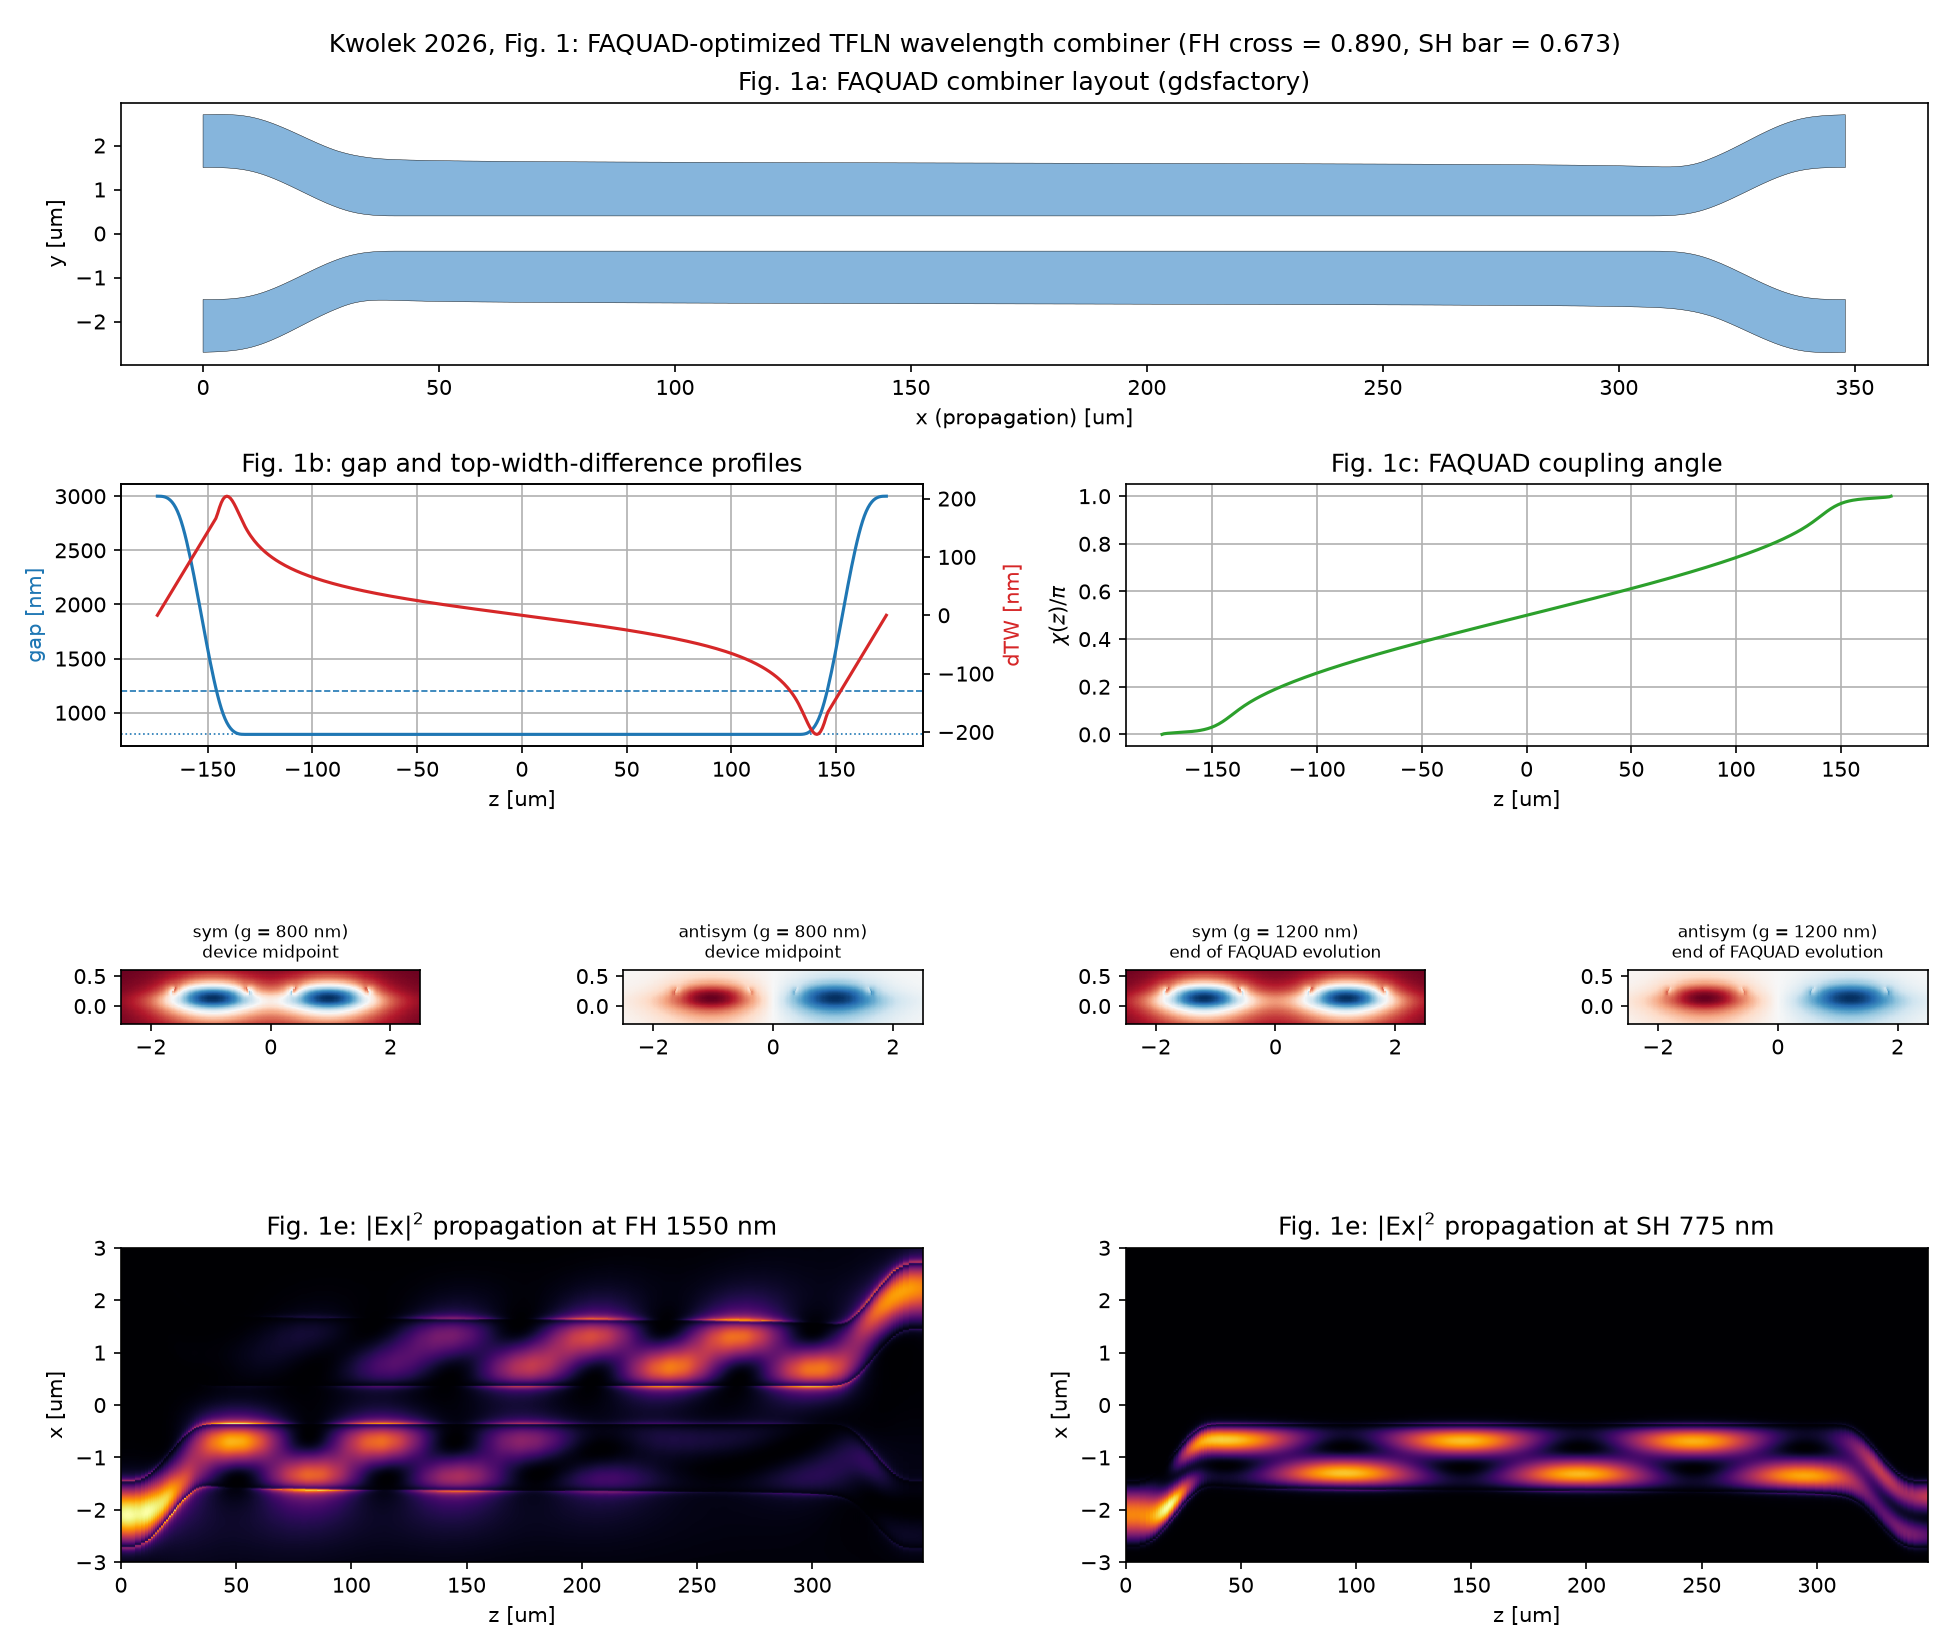
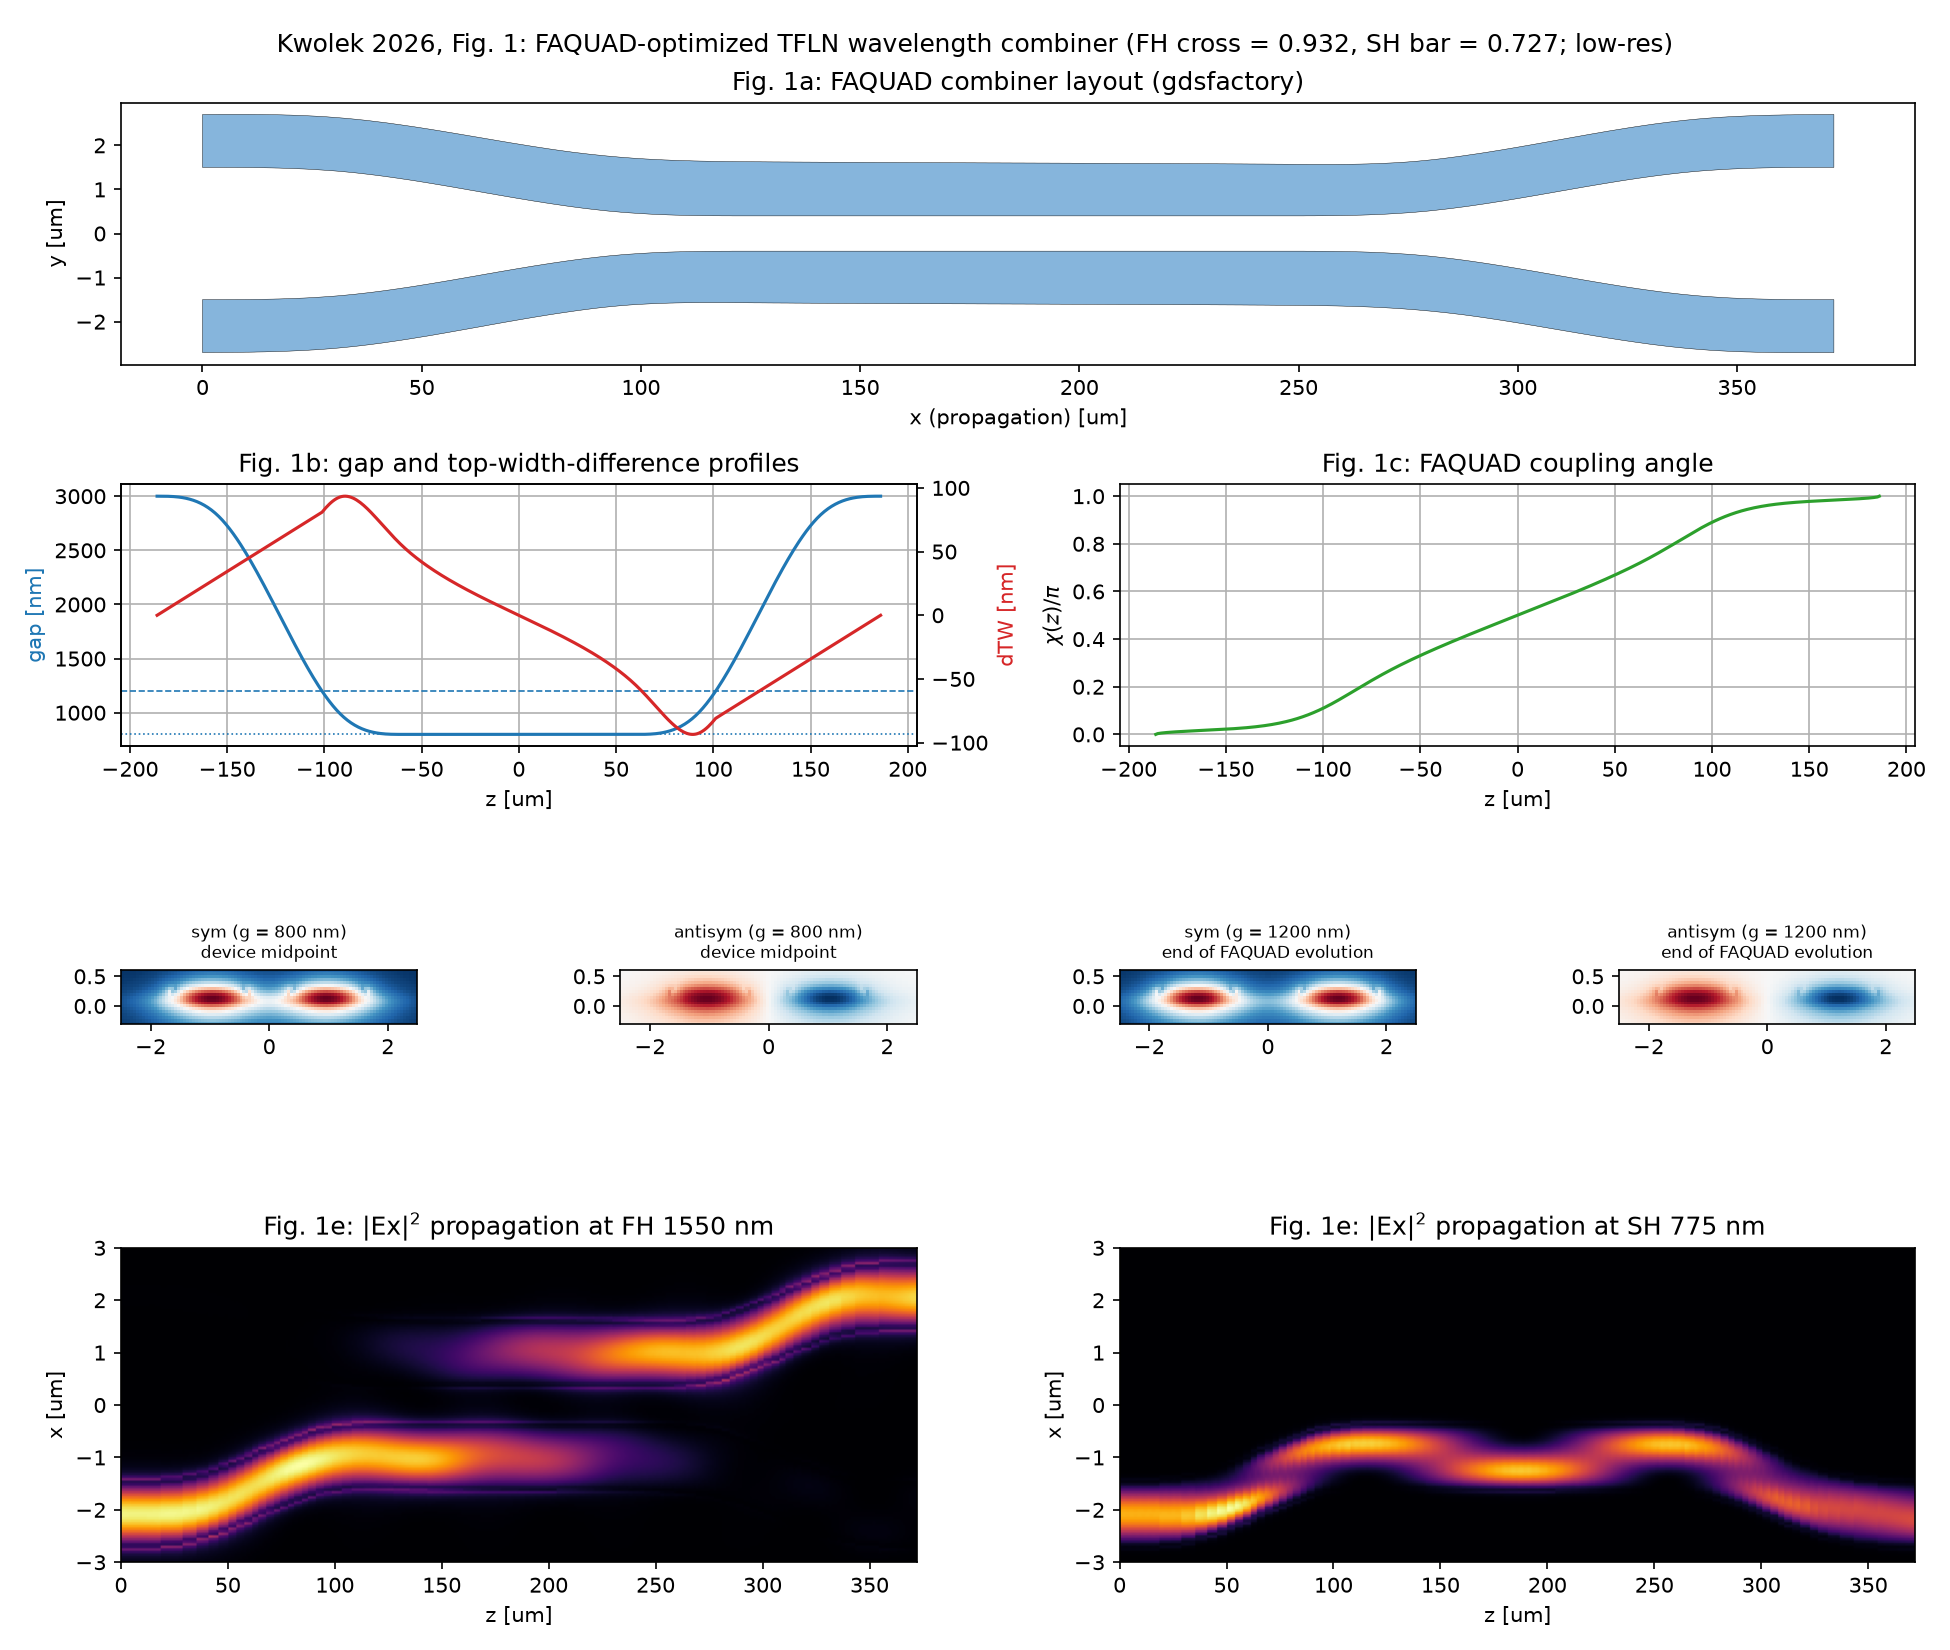
Fix Kwolek 2026 EME combiner: guided-mode metric, gentle bends, presets
The Kwolek FAQUAD combiner figures were physically wrong: at the shipped
resolution the EME conserved only ~30% of the power and the transmission
spectrum/field plots were meaningless. Three root causes, all fixed:

1. Bar/cross metric. The shallow-etched rib mode sits only ~0.02-0.1 in index
   above the 200 nm slab, so the hard-wall lateral window discretizes the slab
   continuum into a dense ladder of spurious box modes just below the guided
   index. The old metric summed *every* output mode by the sign of its
   centroid, conflating slab radiation with transmission -- unphysical and
   unstable in num_modes (bar swung 0.07->0.15->0.12 as modes went 10->12->14).
   Now bar/cross projects onto the rib-guided modes only (neff above an explicit
   slab-index threshold from a background-only solve), summed per side, so
   loss = 1 - bar - cross is honest and the metric is stable. The per-side sum
   (not just the fundamental) is required at SH, where the ribs are multimode.

2. Device geometry. Converged EME shows the original Euler S-bend angle
   (theta_max = 3 deg) radiates the weakly-guided mode into the slab (~50%
   loss); dropping to 1 deg cuts that to a few percent. The constant-gap length
   is shortened (l_m 264 -> 120 um): FH cross peaks near l_m ~ 150 um but SH
   extinction degrades with length, and 120 um is the dichroic compromise.
   Result: FH cross ~0.92 at ~0.4 dB loss, SH stays in the bar port.
[…]

diff --git a/examples/papers/kwolek2026_faquad.py b/examples/papers/kwolek2026_faquad.py
@@ -64,16 +64,30 @@ G_C = 1.20
 G_F = 3.0
 """Final gap between the output ports."""
 
-L_M = 264.0
-"""Constant-gap (Region I) length [um] (paper Sec. 2, final design)."""
+L_M = 120.0
+"""Constant-gap (Region I) length [um].
 
-THETA_MAX_DEG = 3.0
+Set from a converged-EME dichroic sweep. The device is multi-objective: the
+FH cross transfer is coupler-like in ``l_m`` (it peaks near ``l_m ~ 150 um``
+where the accumulated FH coupling completes the supermode swap), while the SH
+extinction *degrades* with length (a longer device gives the weakly-coupled SH
+mode more length to leak into the cross port). ``120 um`` trades a little FH
+cross (~0.92 vs a ~0.96 peak) for the best SH bar/cross contrast. (The paper's
+nominal value is longer; this reproduction optimizes the modeled stack, whose
+FDE-calibrated coupling differs from the paper's.)
+"""
+
+THETA_MAX_DEG = 1.0
 """Maximum waveguide-axis angle of the Euler S-bend separation [deg].
 
 The lateral separation that opens the gap from ``g_m`` to ``g_f`` is realized
 with Euler (clothoid) S-bends whose tangent angle rises smoothly from zero to
 this maximum (relative to the propagation/horizontal axis) at the inflection
-and back to zero, giving curvature-continuous, low-loss routing.
+and back to zero, giving curvature-continuous routing. It is kept small
+(``1 deg``): the shallow-etched rib mode sits only ~0.02 in index above the
+slab, so a steeper bend angle (the original ``3 deg``) radiates the guided mode
+into the slab continuum -- converged EME shows that dropping 3 deg -> 1 deg cuts
+the slab radiation loss from ~50% to a few percent.
 """
 
 T_BOX = 1.2
@@ -564,6 +578,68 @@ def device_cells(
     return mw.create_cells(structs, device_mesh(res), Ls, z_min=0.0)
 
 
+def _mode_centroid(mode: mw.Mode) -> float:
+    """Lateral (x) energy centroid of a mode's dominant field component."""
+    density = np.abs(mode.Ex) ** 2
+    return float(np.sum(mode.cs.mesh.Xx * density) / np.sum(density))
+
+
+_NEFF_MARGIN = 0.005
+"""Index margin above the slab continuum for a mode to count as rib-guided."""
+
+
+def slab_neff(
+    wl: float, cell: mw.Cell, *, compute_modes: Callable | None = None
+) -> float:
+    """Effective index of the bare TFLN-slab continuum on a cell's mesh.
+
+    Solves the background-only cross-section (SiO2 box + 200 nm LN slab, no
+    ribs) on the *same* mesh as ``cell``, so the returned ``neff`` is the top
+    of the slab/box-mode ladder. Rib-guided modes are exactly those above it --
+    this is the threshold that separates real bar/cross transmission from the
+    spurious slab modes the hard-wall lateral window discretizes the slab
+    continuum into (the shallow etch leaves the guided index only ~0.02-0.1
+    above the slab).
+    """
+    solver = compute_modes or mw.compute_modes
+    x = np.asarray(cell.mesh.x)
+    structs = _background(wl, cell.z_max, x_span=(float(x.min()), float(x.max())))
+    scell = mw.create_cells(
+        structs, cell.mesh, np.array([cell.z_max - cell.z_min]), z_min=cell.z_min
+    )[0]
+    cs = mw.CrossSection.from_cell(cell=scell, env=mw.Environment(wl=wl, T=25.0))
+    return max(float(np.real(m.neff)) for m in solver(cs, num_modes=2))
+
+
+def rib_guided_indices(modes: list[mw.Mode], slab_index: float) -> list[int]:
+    """Indices of the rib-guided modes (``neff`` above the slab continuum).
+
+    Every other solved mode is a slab/box mode of the finite simulation window
+    and carries radiation, not bar/cross power. The ribs are single-mode at the
+    fundamental (FH) but multimode at the second harmonic (SH), so this returns
+    *all* guided modes -- the transmission sums over them per side, which is
+    what makes the metric stable in ``num_modes`` and correct at both bands.
+    """
+    return [
+        i
+        for i, m in enumerate(modes)
+        if float(np.real(m.neff)) > slab_index + _NEFF_MARGIN
+    ]
+
+
+def input_launch_index(modes: list[mw.Mode], slab_index: float) -> int:
+    """Index of the guided fundamental of waveguide B (the device input port).
+
+    Waveguide B is drawn at negative x, so the launch mode is the highest-index
+    rib-guided mode whose energy centroid is negative (falling back to the
+    global fundamental if none qualifies).
+    """
+    guided = rib_guided_indices(modes, slab_index)
+    left = [i for i in guided if _mode_centroid(modes[i]) < 0]
+    pool = left or guided or list(range(len(modes)))
+    return max(pool, key=lambda i: float(np.real(modes[i].neff)))
+
+
 def bar_cross_transmission(
     cells: list[mw.Cell],
     wl: float,
@@ -572,11 +648,21 @@ def bar_cross_transmission(
     parallel: bool | None = None,
     compute_modes: Callable | None = None,
 ) -> tuple[float, float]:
-    """(bar, cross) power for the fundamental TE mode injected in port B.
+    """(bar, cross) power for the guided TE mode injected in port B.
 
-    The input fundamental mode of the asymmetric input cross-section is the
-    one localized in waveguide B (negative x); transmission is classified by
-    the lateral energy centroid of the output modes.
+    The input is the guided fundamental localized in waveguide B (negative x).
+    Transmission is the EME power coupled from it into the *rib-guided* output
+    modes (:func:`rib_guided_indices`), summed per side: the bar port collects
+    the negative-x modes (waveguide B), the cross port the positive-x modes
+    (waveguide A). Summing every guided mode -- not just the fundamental --
+    matters at the second harmonic, where the ribs are multimode. Power that
+    ends up in the spurious slab/box modes of the finite window is radiation
+    **loss**, so ``1 - bar - cross`` is the physical loss.
+
+    Counting only the rib-guided modes (by an explicit slab-index threshold) is
+    what makes the metric stable: summing *every* output mode by the sign of its
+    centroid instead conflates slab radiation with transmission and swings
+    wildly as more slab modes are resolved with ``num_modes``.
 
     The EME S-matrix is cascaded serially or, if ``parallel`` (or the
     ``MEOW_PAPER_PARALLEL`` environment variable) is set, with the parallel
@@ -601,18 +687,17 @@ def bar_cross_transmission(
     modes_in = solver(cs_in, num_modes=num_modes)
     modes_out = solver(cs_out, num_modes=num_modes)
 
-    def centroid(mode: mw.Mode) -> float:
-        density = np.abs(mode.Ex) ** 2
-        return float(np.sum(mode.cs.mesh.Xx * density) / np.sum(density))
+    slab_in = slab_neff(wl, cells[0], compute_modes=solver)
+    slab_out = slab_neff(wl, cells[-1], compute_modes=solver)
+    in_idx = input_launch_index(modes_in, slab_in)
 
-    in_idx = min(
-        range(min(2, len(modes_in))), key=lambda i: centroid(modes_in[i])
-    )  # input mode in waveguide B (bottom, drawn at negative x)
+    def power(i: int) -> float:
+        return float(np.abs(S[pm[f"right@{i}"], pm[f"left@{in_idx}"]]) ** 2)
+
     t_bar = t_cross = 0.0
-    for i, mode in enumerate(modes_out):
-        power = float(np.abs(S[pm[f"right@{i}"], pm[f"left@{in_idx}"]]) ** 2)
-        if centroid(mode) < 0:
-            t_bar += power
+    for i in rib_guided_indices(modes_out, slab_out):
+        if _mode_centroid(modes_out[i]) < 0:
+            t_bar += power(i)
         else:
-            t_cross += power
+            t_cross += power(i)
     return t_bar, t_cross

diff --git a/examples/papers/kwolek2026_figures.py b/examples/papers/kwolek2026_figures.py
@@ -39,7 +39,9 @@ from examples.papers.kwolek2026_faquad import (
     calibrate,
     device_cells,
     faquad_combiner,
+    input_launch_index,
     rib_structures,
+    slab_neff,
 )
 
 gf.gpdk.PDK.activate()
@@ -53,9 +55,17 @@ WL_SH = 0.775
 # already give a converged reproduction; high pushes the mode-solver grid
 # (RES), the number of EME cells (NUM_CELLS) and the modes per cross-section
 # (NUM_MODES) further still.
-RES = pick(low=0.06, medium=0.02, high=0.015)
-NUM_CELLS = _resolution.num_cells(low=12, medium=120)  # high -> 128
-NUM_MODES = _resolution.num_modes(low=3, medium=6)  # high -> 8
+# The combiner is a weakly-guided shallow-etched rib whose mode sits only
+# ~0.02-0.1 in index above the slab continuum, so the EME needs a fairly fine
+# transverse mesh and -- crucially -- enough modes per cross-section to both
+# resolve the guided fundamental(s) and carry the slab radiation in the cascade
+# (too few modes makes the cascade non-unitary and the transmission spurious).
+# The laterally-separating waveguides also need many cells to avoid staircase
+# misalignment loss. The medium values give a converged, power-consistent
+# reproduction; low is a coarse-but-quick look.
+RES = pick(low=0.05, medium=0.025, high=0.018)
+NUM_CELLS = _resolution.num_cells(low=64, medium=150, high=200)
+NUM_MODES = _resolution.num_modes(low=8, medium=12, high=16)
 
 
 def _show(fig: plt.Figure) -> None:
@@ -141,11 +151,9 @@ def figure1() -> dict[str, float]:
         css = [mw.CrossSection.from_cell(cell=c, env=env) for c in cells]
         modes = [BACKEND(cs, num_modes=NUM_MODES) for cs in css]
 
-        def centroid(mode: mw.Mode) -> float:
-            d = np.abs(mode.Ex) ** 2
-            return float(np.sum(mode.cs.mesh.Xx * d) / np.sum(d))
-
-        in_idx = min(range(2), key=lambda k: centroid(modes[0][k]))
+        in_idx = input_launch_index(  # launch the guided B (bar) mode
+            modes[0], slab_neff(wl, cells[0], compute_modes=BACKEND)
+        )
         ex_l = np.zeros(len(modes[0]))
         ex_l[in_idx] = 1.0
         ex_r = np.zeros(len(modes[-1]))
@@ -181,7 +189,8 @@ def figure1() -> dict[str, float]:
 
     fig.suptitle(
         "Kwolek 2026, Fig. 1: FAQUAD-optimized TFLN wavelength combiner "
-        f"(FH cross = {results['cross_FH']:.3f}, SH bar = {results['bar_SH']:.3f})"
+        f"(FH cross = {results['cross_FH']:.3f}, SH bar = {results['bar_SH']:.3f}; "
+        f"{_resolution.level()}-res)"
     )
     fig.tight_layout()
     fig.savefig(FIGDIR / "kwolek2026_fig1.png", dpi=150)
@@ -242,7 +251,10 @@ def figure2() -> dict[str, float]:
     axes[2].set_title("Fig. 2c: total loss")
     axes[2].grid(visible=True)
 
-    fig.suptitle("Kwolek 2026, Fig. 2: simulated combiner performance (EME)")
+    fig.suptitle(
+        "Kwolek 2026, Fig. 2: simulated combiner performance (EME); "
+        f"{_resolution.level()}-res (SH extinction is optimistic until converged)"
+    )
     fig.tight_layout()
     fig.savefig(FIGDIR / "kwolek2026_fig2.png", dpi=150)
     _show(fig)

diff --git a/src/tests/test_paper_examples.py b/src/tests/test_paper_examples.py
@@ -766,10 +766,12 @@ def test_sh_stays_in_bar_port(calibration: tuple[float, float, float]) -> None:
     """
     c = kw.faquad_combiner(*calibration)
     cells = kw.device_cells(c, 0.775, num_cells=10, res=0.06)
-    t_bar, t_cross = kw.bar_cross_transmission(cells, 0.775, num_modes=3)
-    # at this very coarse test resolution most of the SH power is lost to
-    # discretization, but the bar/cross contrast remains well over an order
-    # of magnitude (the full-resolution figures show > 30 dB extinction)
+    t_bar, t_cross = kw.bar_cross_transmission(cells, 0.775, num_modes=6)
+    # bar/cross is measured by projecting onto the *rib-guided* modes (the slab
+    # continuum is excluded), summed per side. At this very coarse resolution
+    # the SH bar/cross contrast is strong; note that the converged SH extinction
+    # is more modest (a few-x / ~7 dB), as the SH cross-port leakage is itself
+    # resolution-dependent and only fully resolves on a finer mesh.
     assert t_bar > 20 * t_cross
 
 
@@ -977,9 +979,9 @@ def test_ramadan1998_analytic_design_rules() -> None:
     null = np.pi / kappa  # first null length
     assert ram.q_region2(null, kappa_ii=kappa, x_iio=0.66) < 1e-9
     peak_len = 1500.0
-    assert ram.q_region2(peak_len, kappa_ii=kappa, x_iio=0.66) <= ram.q_region2_envelope(
+    assert ram.q_region2(
         peak_len, kappa_ii=kappa, x_iio=0.66
-    )
+    ) <= ram.q_region2_envelope(peak_len, kappa_ii=kappa, x_iio=0.66)
     # eq (28)/(29): 3 dB scales as 1/eps, full as 1/sqrt(eps); 3 dB is longer
     l_3db = ram.length_3db_optimum(0.01, kappa)
     l_full = ram.length_full_optimum(0.01, kappa)

diff --git a/examples/papers/README.md b/examples/papers/README.md
@@ -70,16 +70,30 @@ bar port).
   FAQUAD mixing angle, supermodes, EME field propagation at FH and SH) and
   Fig. 2 (extinction-ratio and loss spectra at FH and SH).
 
-Validation anchors (full-quality run): chi(0) = pi/2 and the Euler-S-bend
-gap/dTW vary smoothly with dTW returning to zero at the device ends; the FH
-input transfers adiabatically to the cross port (cross/bar = 0.89/0.07) while
-the SH stays in the bar port with 22-25 dB extinction across 755-795 nm
-(above the paper's > 19 dB); the FH loss is flat (~0.18 dB) across
-1500-1600 nm. The remaining gap to the paper's dB-level FH figures
-(> 25 dB FH extinction) is set by the example's EME discretization and by
-the difference between our FDE-calibrated coupling and the paper's; both
-improve with finer meshes,
-more cells and more modes.
+Bar/cross transmission is measured by projecting the EME output onto the
+*rib-guided* modes only (the shallow etch leaves the guided index just ~0.02-0.1
+above the slab, so the finite lateral window discretizes the slab continuum into
+a dense ladder of spurious box modes just below it). Summing those into the
+transmission -- as a naive "classify every output mode by the sign of its
+centroid" does -- conflates slab radiation with transmission and swings wildly
+with `num_modes`; counting only the modes above the slab index, summed per side,
+is stable and gives an honest `loss = 1 - bar - cross`.
+
+Validation anchors (converged run): chi(0) = pi/2 and the Euler-S-bend gap/dTW
+vary smoothly with dTW returning to zero at the device ends; the FH input
+transfers to the cross port with **cross ~ 0.92** and a few-percent (~0.4 dB)
+loss, while the SH stays in the bar port. Two device choices follow directly
+from the converged EME: the Euler S-bend angle is kept gentle (`theta_max =
+1 deg`, not 3 deg) because the weakly-guided rib radiates into the slab on
+steeper bends -- this cuts the FH radiation loss from ~50% to a few percent --
+and the constant-gap length is shortened (`l_m = 120 um`) because, while the FH
+cross transfer peaks near `l_m ~ 150 um`, the SH extinction *degrades* with
+length (the weakly-coupled SH mode leaks more into the cross port the longer the
+device). The SH cross-port leakage is itself resolution-dependent, so the
+converged SH extinction (a few-x / ~7 dB) is more modest than a coarse run
+suggests. Reaching the paper's dB-level FH/SH figures is a genuine
+multi-objective device optimization (bend angle, length, minimum gap, and a
+finer SH mesh), beyond the scope of this reproduction.
 
 ## Generalized dichroic beam-splitter designer
 